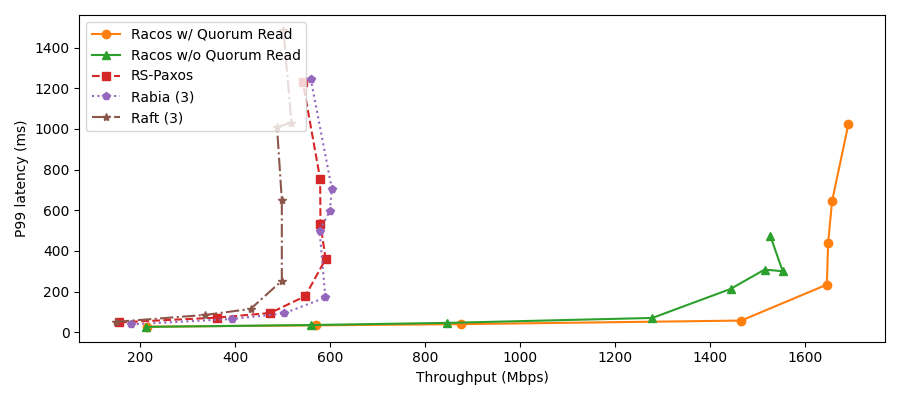
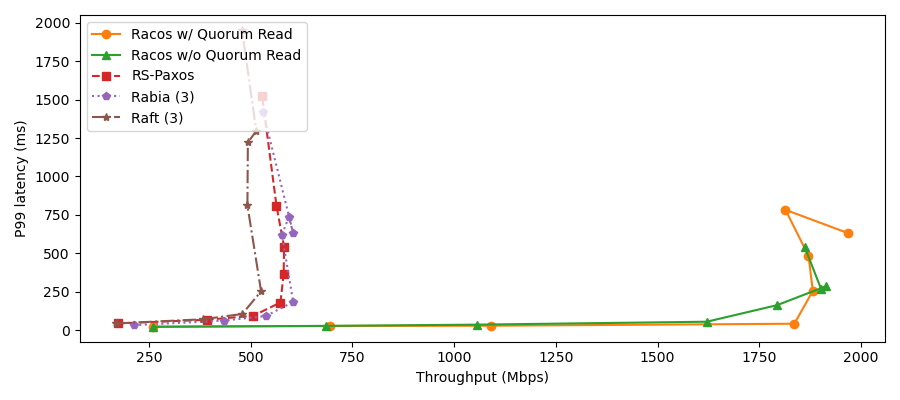
small change

diff --git a/run_tests.py b/run_tests.py
@@ -11,13 +11,7 @@ from helpers.encoding import config_to_str, ip_lister
 from helpers.execute import git_interact, remote_execute_async, remote_execute_sync
 from helpers.reset_nodes import reset_delay_packets_cpus, reset_nodes
 
-ALG_COUNTS : typing.Dict[str, str] = {
-  'racos' : ['2750', '2500', '2250', '2000', '1750', '1500', '1250', '1000'],
-  'tracos' : ['2750', '2500', '2250', '2000', '1750', '1500', '1250', '1000'],
-  'rabia' : ['2750', '2500', '2250', '2000', '1750', '1500', '1250', '1000'],
-  'raft' : ['2750', '2500', '2250', '2000', '1750', '1500', '1250', '1000'],
-  'paxos' : ['2750', '2500', '2250', '2000', '1750', '1500', '1250', '1000']
-}
+COUNTS : typing.List[str] = ['2050', '1900', '1750', '1600', '1450', '1300', '1150', '1000']
 
 LINE_PATTERN : re.Pattern = re.compile(r'TOTAL.+')
 OPS_PATTERN : re.Pattern = re.compile(r'OPS: \d+\.\d')
@@ -131,7 +125,7 @@ CPU freq: {cpu_freqs}''')
       # configures `profile.sh` and `workload` for the current algorithm
       if alg == 'paxos': profile_string = PROFILE_CONFIG.format(leader_endpoint = '10.10.1.1:2379')
       else: profile_string = PROFILE_CONFIG.format(leader_endpoint = ','.join([f"{node_ip}:2379" if node_ip != "10.10.1.2" else f"{node_ip}:2379,{node_ip}:2379" for node_ip in node_ips_list]))
-      workload_cmd : str = SCRIPT_LOADER.format(script = test_config["workload"].format(variable = str(variable), counts = ALG_COUNTS[alg][i] if test.startswith('data_size') else ALG_COUNTS[alg][7 - i]), path = '/local/go-ycsb/workloads/workload')
+      workload_cmd : str = SCRIPT_LOADER.format(script = test_config["workload"].format(variable = str(variable), counts = COUNTS[i] if test.startswith('data_size') else COUNTS[7 - i]), path = '/local/go-ycsb/workloads/workload')
       bash_print(workload_cmd)
       remote_execute_async(client_address, workload_cmd)
       profile_setup_cmd : str = SCRIPT_LOADER.format(script = profile_string, path = '/local/go-ycsb/workloads/profile.sh')
